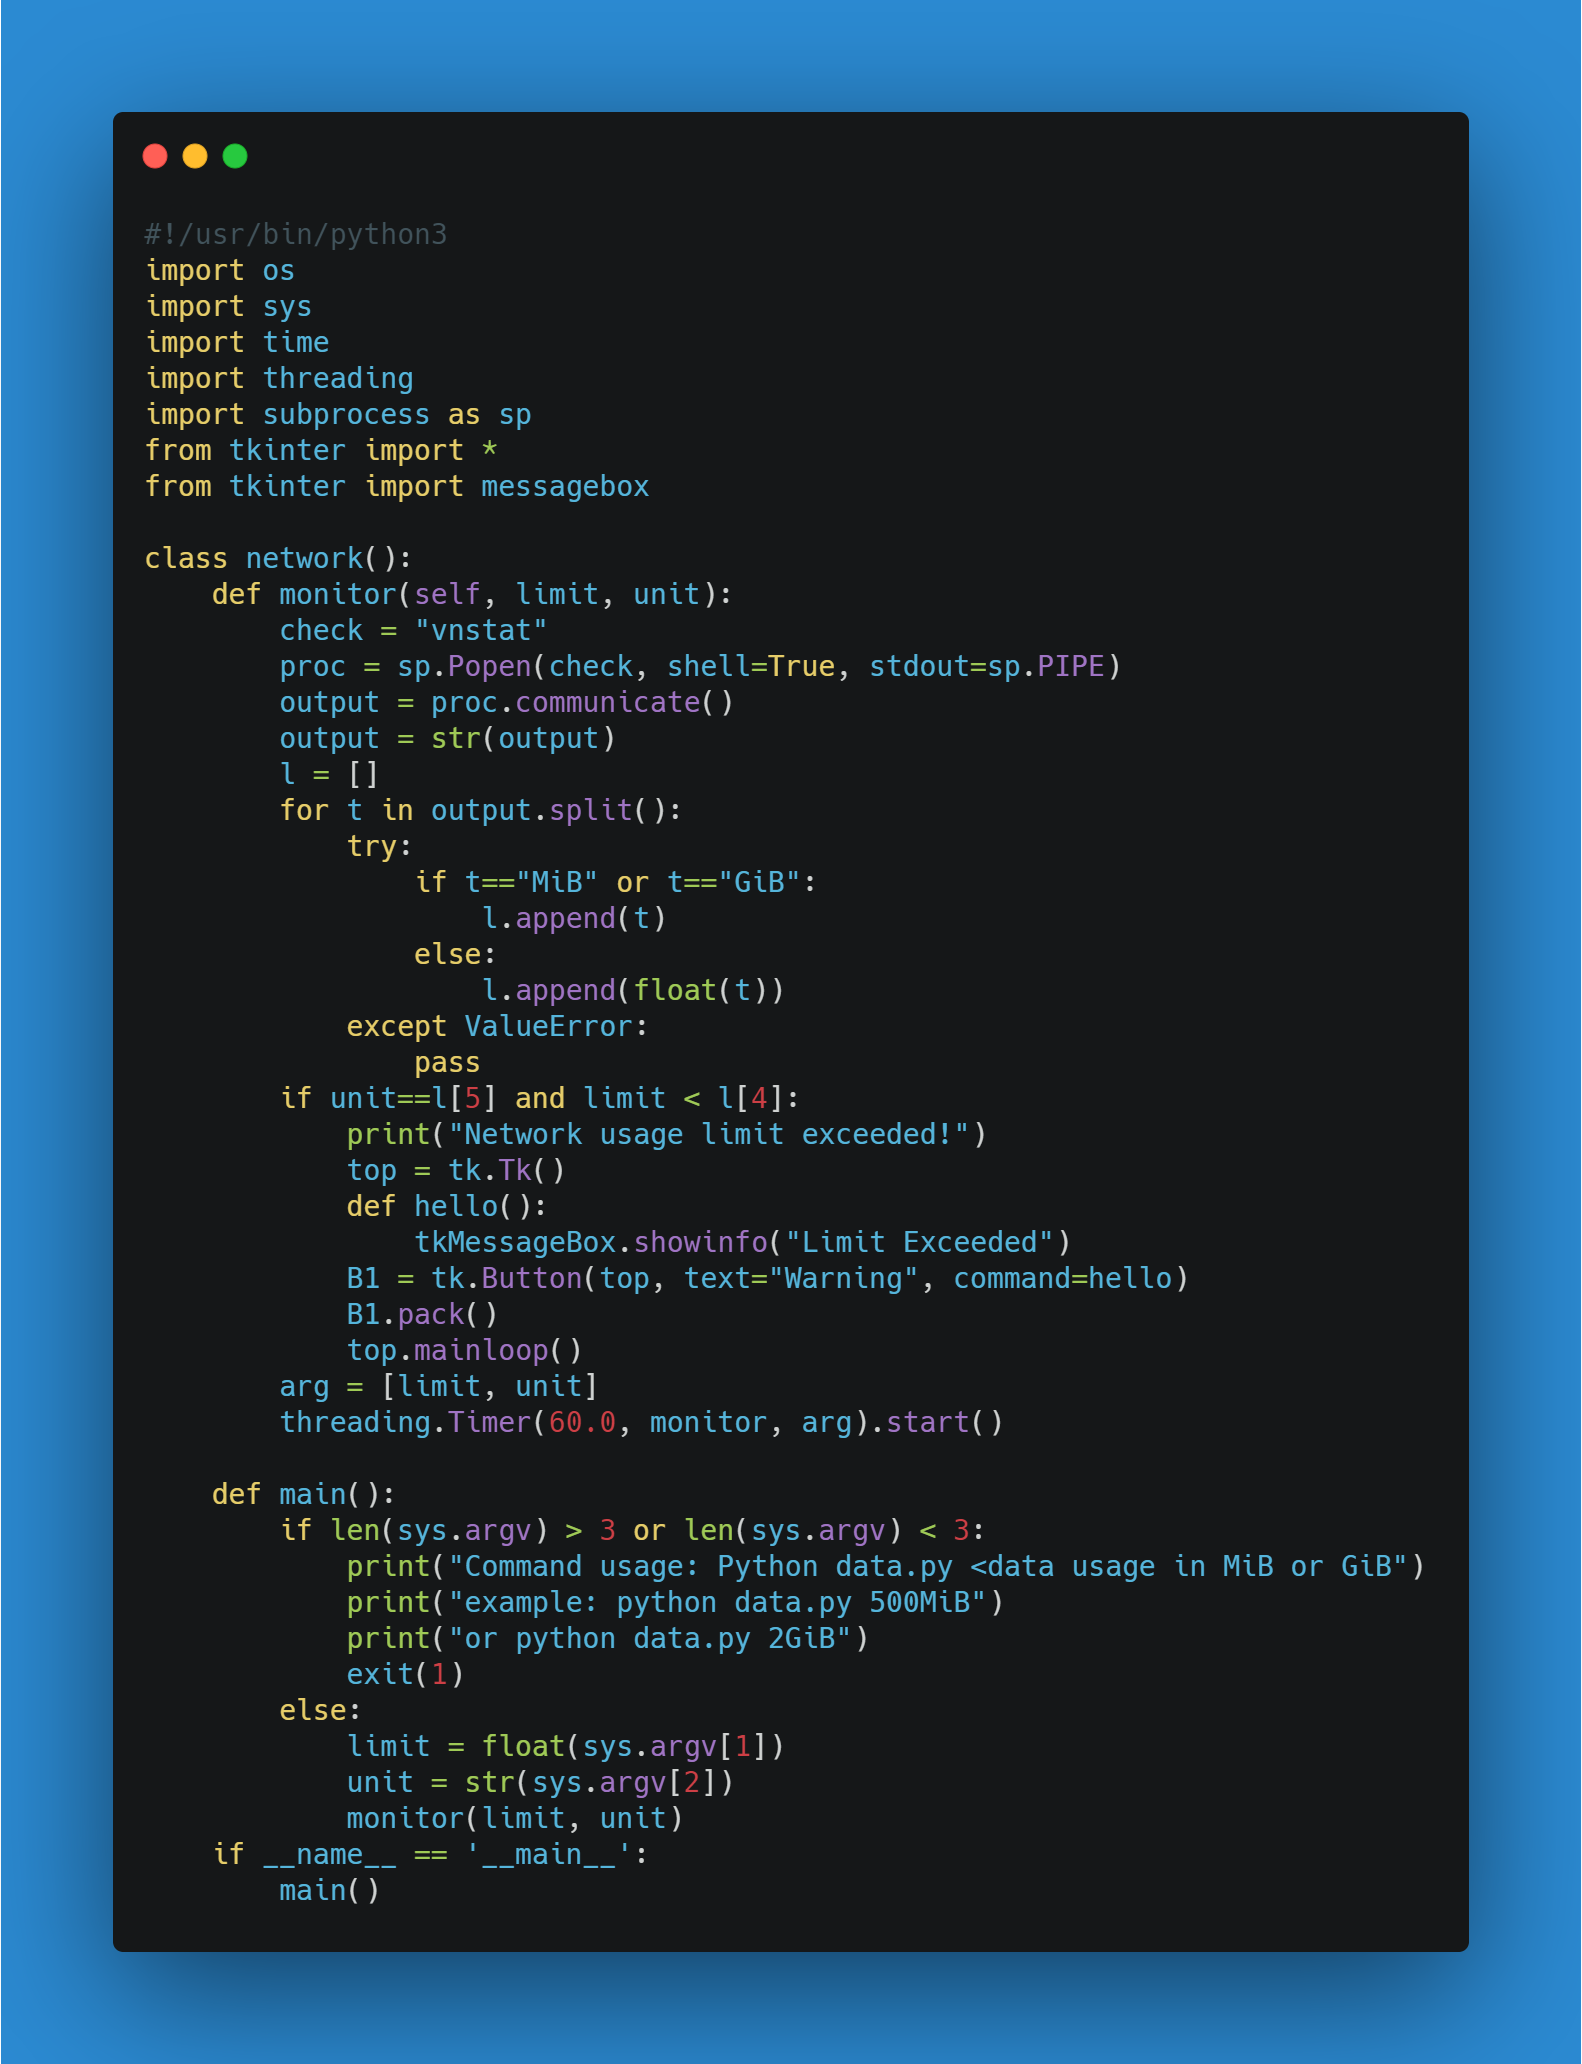
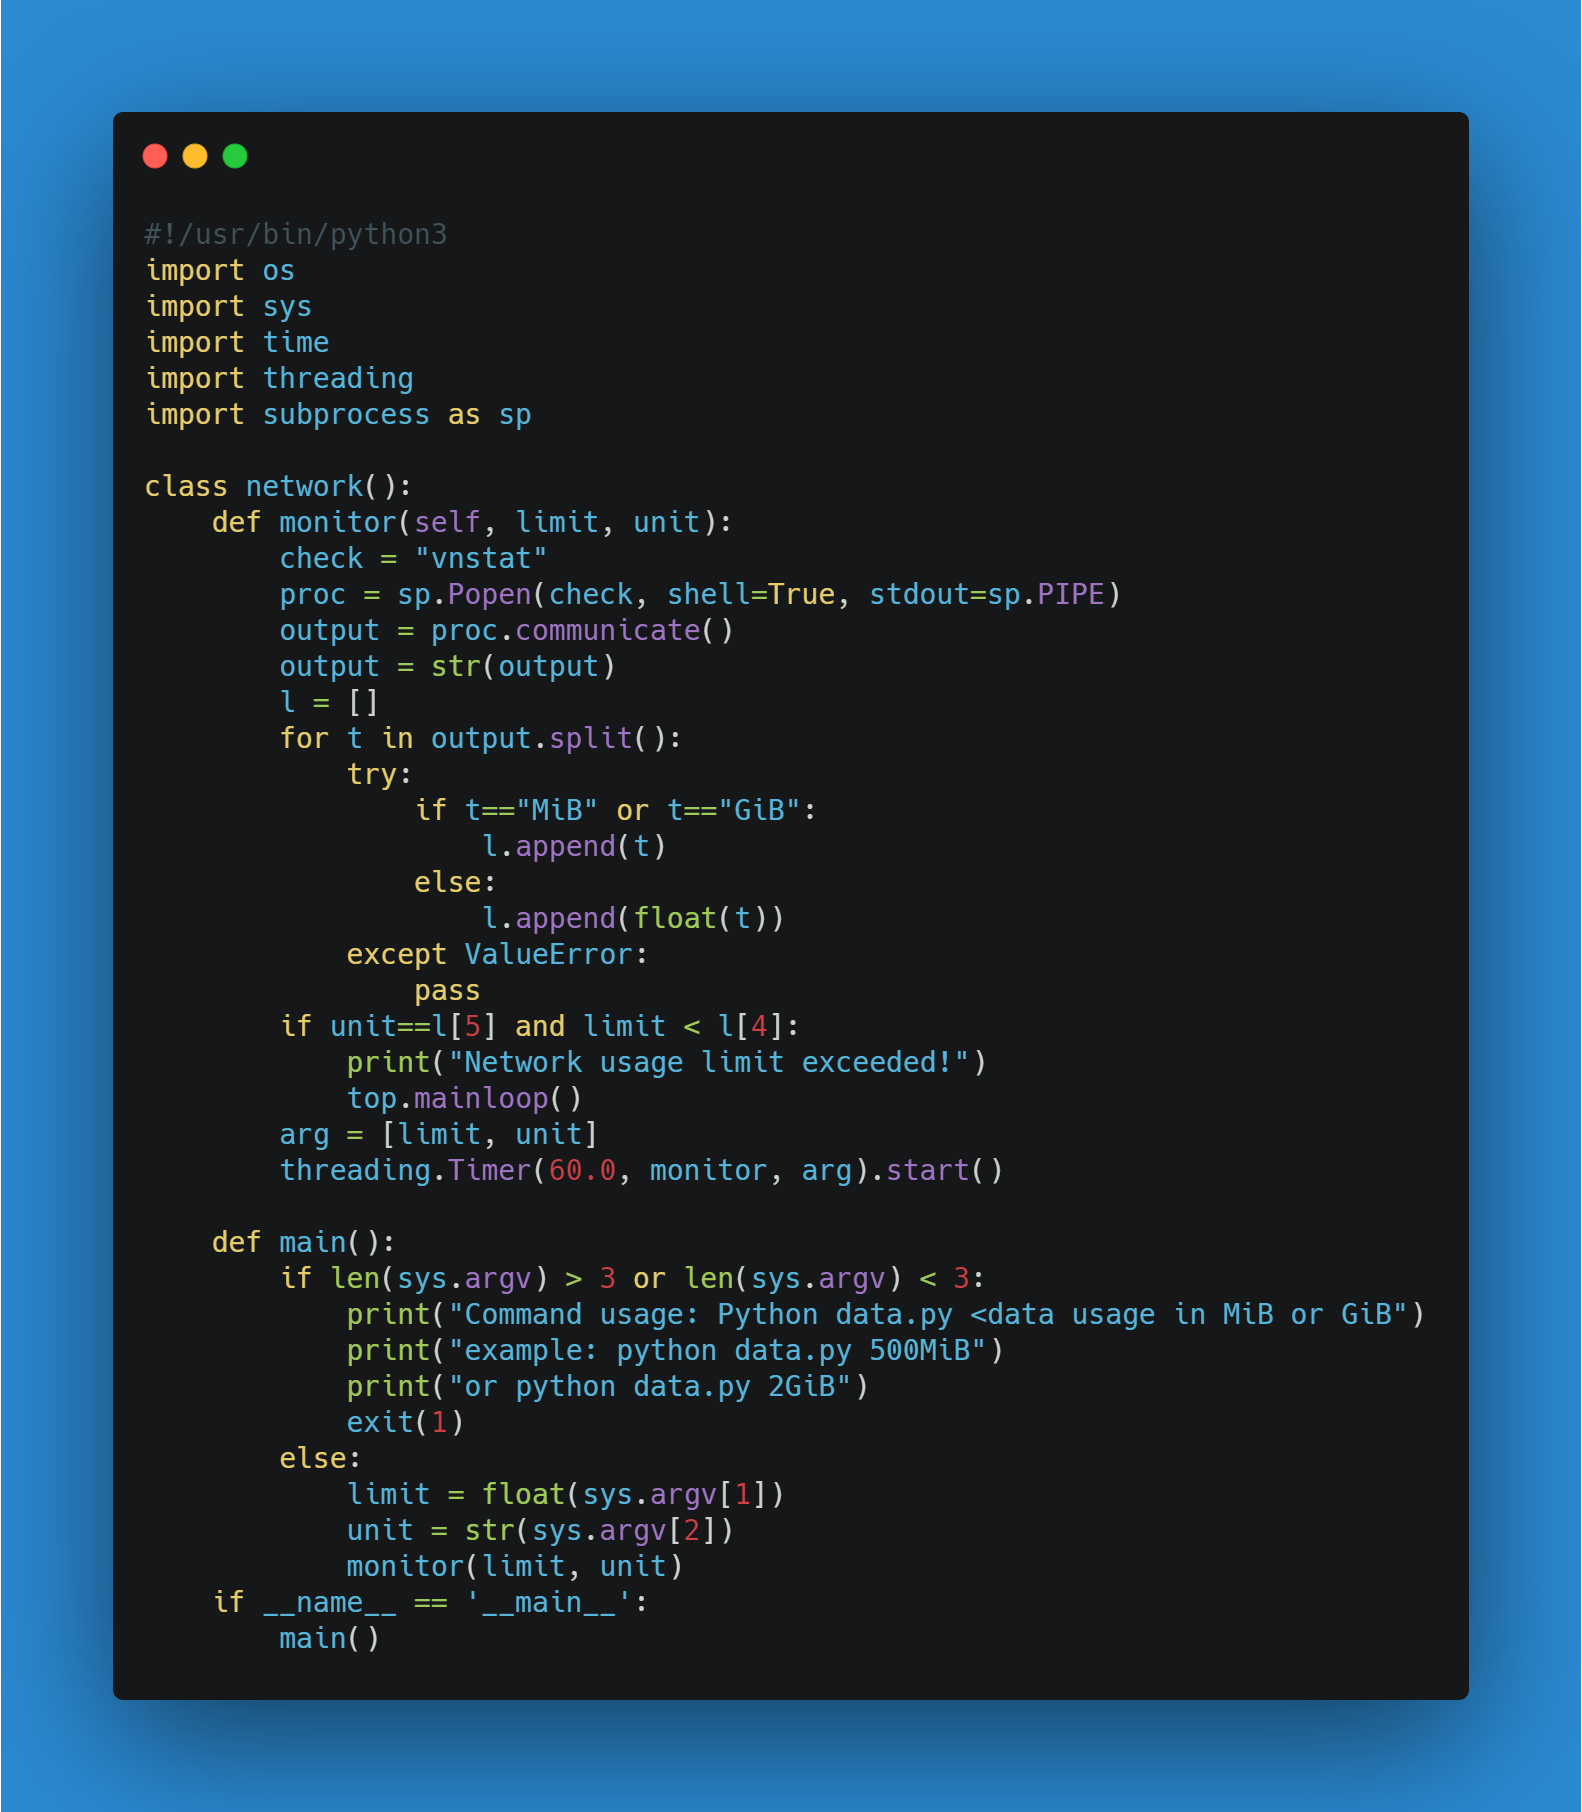
Track data usage

diff --git a/Track Data Usage/data.py b/Track Data Usage/data.py
@@ -4,8 +4,6 @@ import sys
 import time
 import threading
 import subprocess as sp
-from tkinter import *
-from tkinter import messagebox
 
 class network():
 	def monitor(self, limit, unit):
@@ -24,11 +22,6 @@ class network():
 				pass
 		if unit==l[5] and limit < l[4]:
 			print("Network usage limit exceeded!")
-			top = tk.Tk()
-			def hello():
-				tkMessageBox.showinfo("Limit Exceeded")
-			B1 = tk.Button(top, text="Warning", command=hello)
-			B1.pack()
 			top.mainloop()
 		arg = [limit, unit]
 		threading.Timer(60.0, monitor, arg).start()

diff --git a/Track Data Usage/readme.md b/Track Data Usage/readme.md
@@ -8,9 +8,8 @@ Now, the world is all about internet, and the data! We have now apps for trackin
 
 1. vnstat
 2. Python3
-3. Tkinter
-4. Linux OS
-5. WiFi connection to your system.
+3. Linux OS
+4. WiFi connection to your system.
 
 ## Understanding the Code
 
@@ -20,7 +19,7 @@ Firstly, you have to use a Linux system for this program, because the ```vnstat`
 
 2. Now, let's understand the code.
 
-![image](https://raw.githubusercontent.com/HarshCasper/Rotten-Scripts/cee304d0124575ad9927b892e9592d44df66b903/Track%20Data%20Usage/carbon.png)
+![image]()
 
 ```
 #!/usr/bin/python3
@@ -30,8 +29,6 @@ import sys
 import time
 import threading
 import subprocess as sp
-from tkinter import *
-from tkinter import messagebox
 ```
 
 The ```os``` module in python provides functions for interacting with the operating system. OS, comes under Python's standard utility modules. This module provides a portable way of using operating system dependent functionality.  
@@ -42,12 +39,7 @@ The Python ```time``` module provides many ways of representing time in code, su
 
 ```threading``` module constructs higher-level threading interfaces on top of the lower level _thread module. To know more, visit [here](https://docs.python.org/3/library/threading.html).  
 
-The ```subprocess``` module allows you to spawn new processes, connect to their input/output/error pipes, and obtain their return codes.  
-
-The ```tkinter``` package (“Tk interface”) is the standard Python interface to the Tk GUI toolkit.
-To install tkinter in use:  ```pip install tk```.  
-
-The ```tkMessageBox``` module is used to display message boxes in your applications. This module provides a number of functions that you can use to display an appropriate message.  
+The ```subprocess``` module allows you to spawn new processes, connect to their input/output/error pipes, and obtain their return codes.   
 
 Now, I have implemented a class ```network```, so that we can access this program from anywhere, in which there are two functions i.e. ```main``` and ```monitor```.  
 
